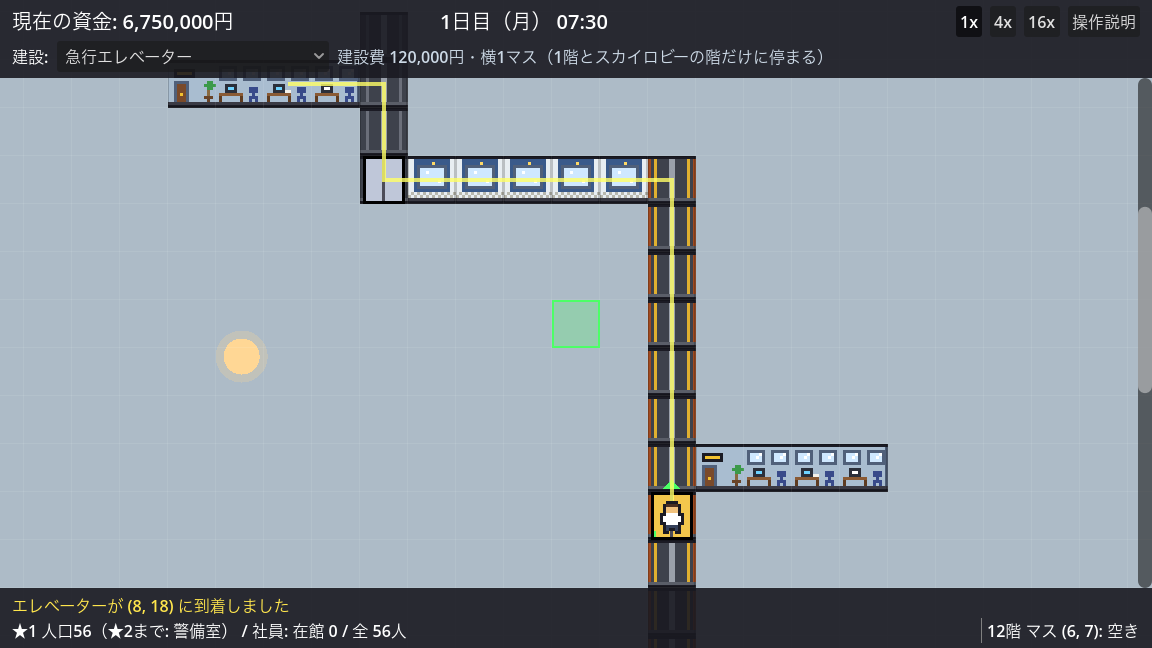
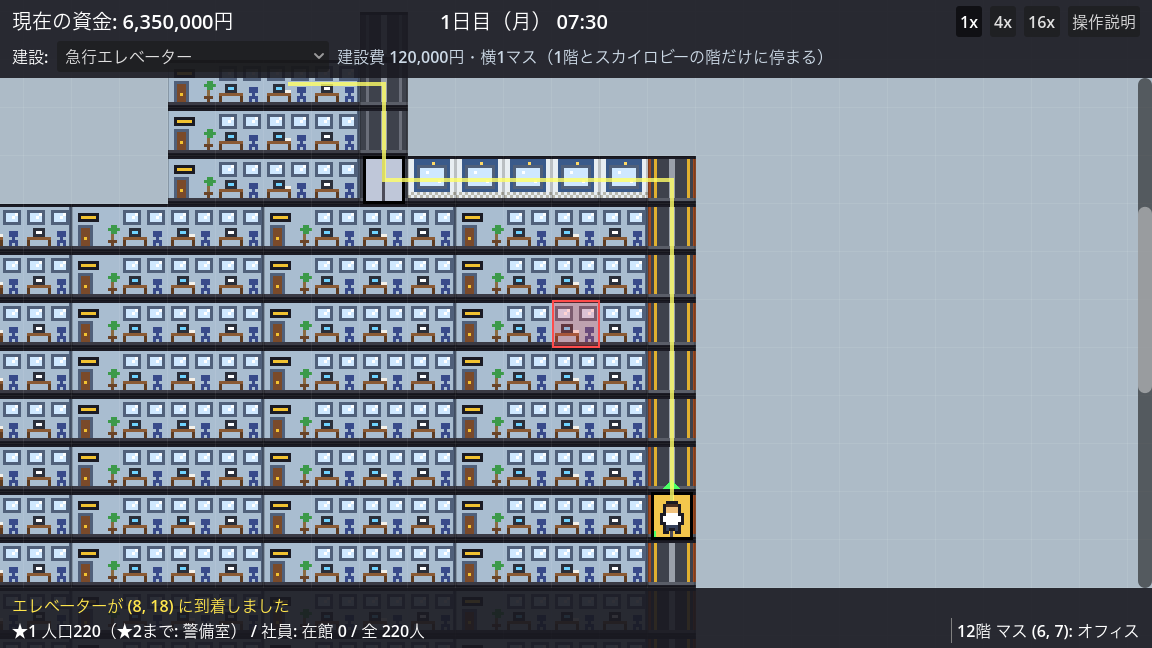
feat: 建物の支え（下の階に建物がないと建てられない・支えている建物は撤去できない）

diff --git a/README.md b/README.md
@@ -181,6 +181,8 @@ godot --path . -s res://tools/generate_readme_images.gd
 
 **建てられる階の決まり:** 1階はロビー専用で、1階に建てられるのはロビー・階段・エレベーターだけです。地下鉄駅は地下にだけ、スカイロビーは15階・30階・45階…にだけ建てられます。それ以外の建物は、2階から上か地下に建てます。何階かは、カーソル下のマスの情報（下部バーの右）の先頭に出ます。
 
+**建物の支え:** 建物は宙に浮かせられません。2階から上の建物は、建てるマスの真下が全部ほかの建物で埋まっている必要があります（1階から上へ積み上げていきます）。地下は、真上に建物がある場所にだけ建てられます（1階から下へ掘り進めます）。ほかの建物を支えている建物は撤去できないので、上の階から（地下は下の階から）順に撤去します。エレベーターのシャフトも同じく、1階から積み上げ、上のマスから撤去します。
+
 #### テナント（収入になる建物）
 
 | 絵 | 名前 | 大きさ | 建設費 | 内容 |

diff --git a/Tasks.md b/Tasks.md
@@ -52,7 +52,7 @@
 - [x] 吹き抜けロビー（建物の高さ＝複数階の導入）
 - [x] スカイロビー（1階から15階ごとの階にだけ建てられる乗り換えフロア）
 - [x] 急行エレベーター（1階とスカイロビーだけをつなぐ）
-- [ ] 建物の支え（下の階に建物がないと建てられない。地下は上の階から掘り進める）
+- [x] 建物の支え（下の階に建物がないと建てられない。地下は上の階から掘り進める）
 - [ ] エスカレーター（商業施設向けの大量輸送）
 - [ ] 標準エレベーターの待機階（ホーム）と稼働時間帯の設定
 - [ ] サービスエレベーター（清掃員・警備員専用）
